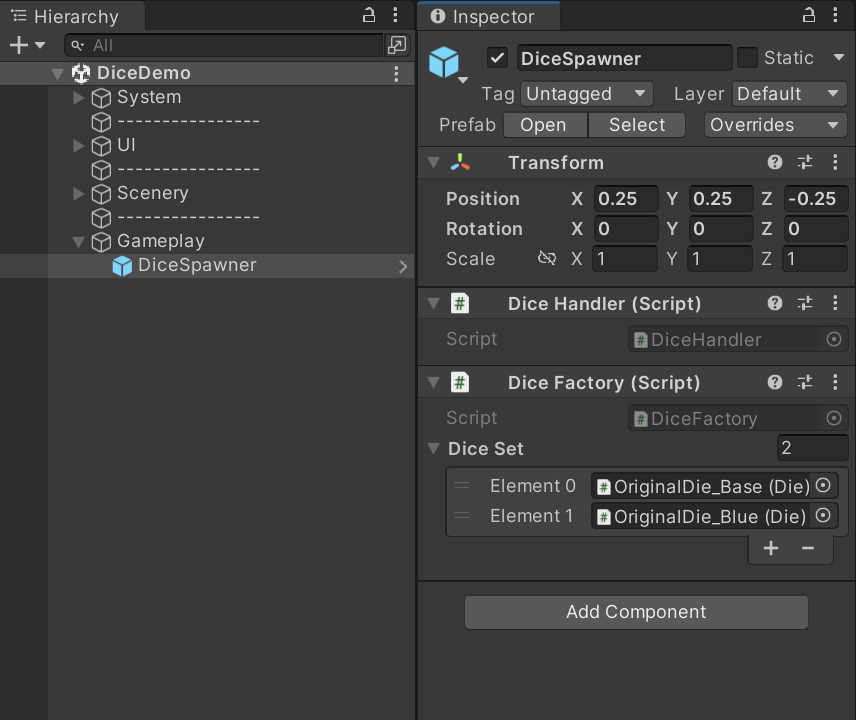
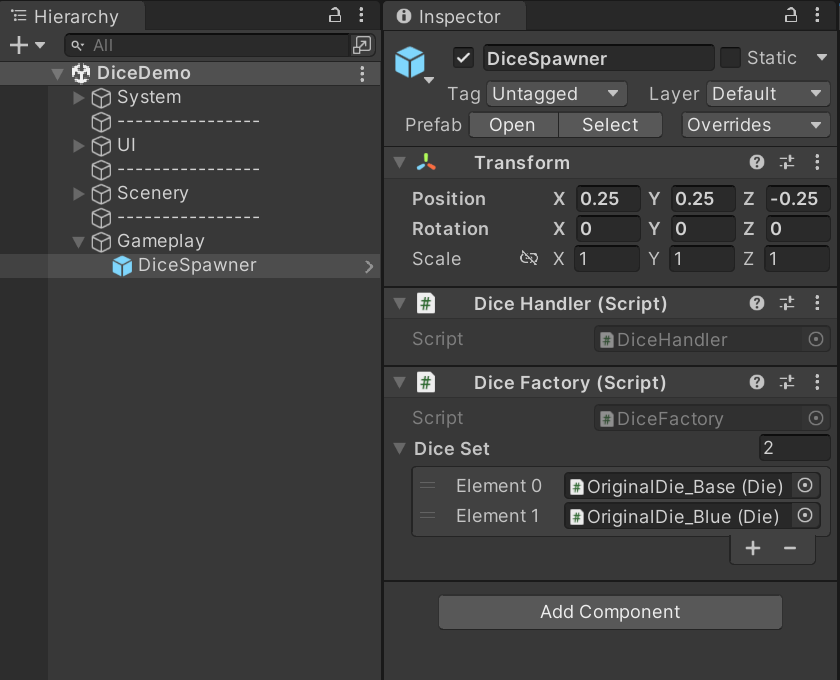
Update documentation images

Changed region(s): [[0.0, 0.0, 1.0, 1.0]]

diff --git a/README.md b/README.md
@@ -60,7 +60,7 @@ Since the main mechanics of this project is the dice roll simulation, let's dwel
 
 There is DiceSpawner gameobject in the Gameplay layer of the scene. The DiceFactory class is attached to it, in which the DiceSet field is serialized.
 
-<img src="docs/images/dice_spawner.png" alt="drawing" width="428"/>
+<img src="docs/images/dice_spawner.png" alt="drawing" width="420"/>
 
 Here you can change the number of dice in the set and fill it with prefabs in the desired order. There must be at least one die in the set, otherwise the application will throw the corresponding exception at the launch.
 
@@ -70,7 +70,7 @@ In the world of board games, there are not only classic dice. Players use bizarr
 
 On the example of it prefab, you can see the differences in object settings compared to the original die prefab. Please note that the number of die sides added to the Die class in the inspector must match the number of corresponding values.
 
-<img src="docs/images/die_prefab.png" alt="drawing" width="428"/>
+<img src="docs/images/die_prefab.png" alt="drawing" width="420"/>
 
 Some dice shapes may require you to create your own physical material, such as with different friction settings. Also, for the desired behavior of the object during the simulation, you can separately adjust the parameters of the ridgidbody, such as mass and drag. If these tools are not enough, you can influence the throw parameters quite strongly by changing the constant fields of the ImpulseGenerator class.
 
